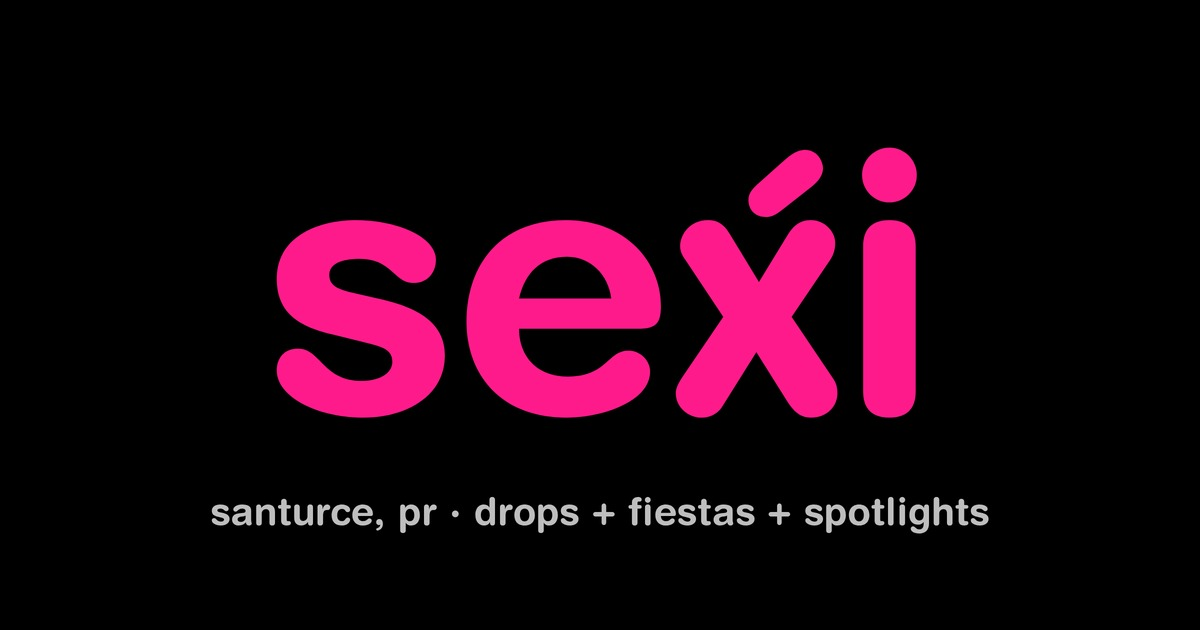
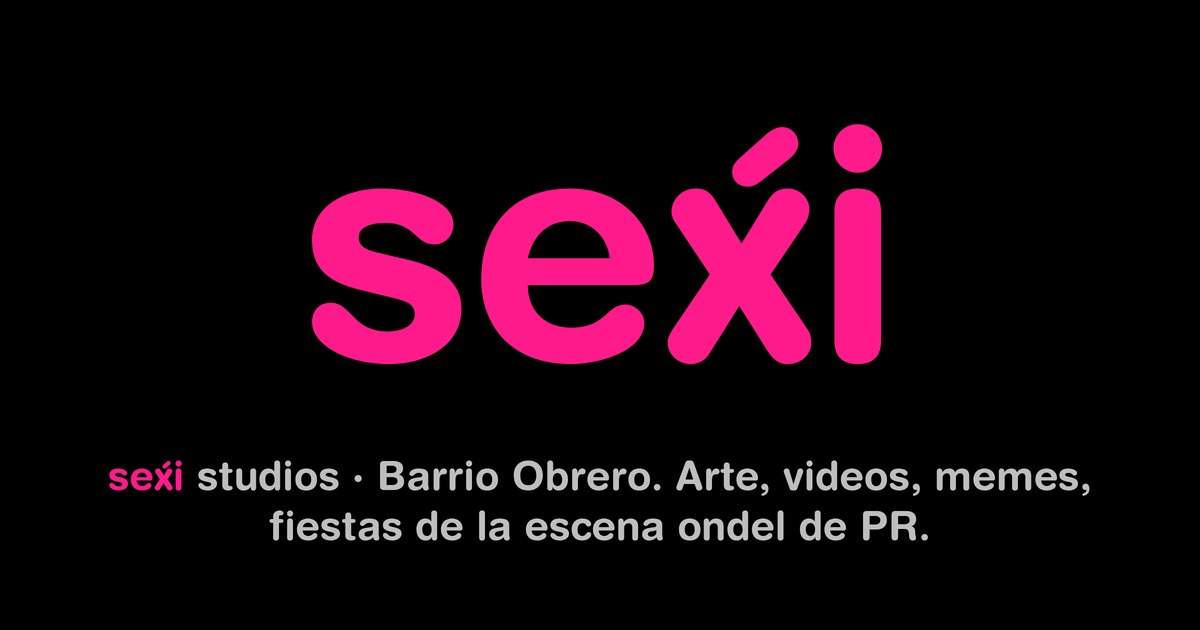
OG copy: switch to footer tagline 'sexí studios · Barrio Obrero…'
- og-image.jpg: tagline now matches footer copy, brand-marked sexí in pink
- index.html + home-locked.html og:description: footer text
- tienda.html og:description: studios prefix + tienda-specific tail
- Wordmark + accent unchanged (Frank confirmed accent is perfect)

Changed region(s): [[0.2158, 0.181, 0.7708, 0.6635], [0.0925, 0.7238, 0.925, 0.8746]]

diff --git a/home-locked.html b/home-locked.html
@@ -7,7 +7,7 @@
   <meta name="description" content="sexí studios — fiestas, drops y spotlights a artistas boricuas up-and-coming. Santurce, San Juan. Digital, ácido, oscuro, boricua, imperfecto.">
   <meta name="theme-color" content="#000000">
   <meta property="og:title" content="sexí — santurce, PR">
-  <meta property="og:description" content="digital, ácido, oscuro, boricua, imperfecto — lo feo también es arte.">
+  <meta property="og:description" content="sexí studios · Barrio Obrero. Arte, videos, memes, fiestas de la escena ondel de PR.">
   <meta property="og:type" content="website">
   <meta property="og:url" content="https://sexipr.com">
   <meta property="og:image" content="assets/og-image.jpg">

diff --git a/index.html b/index.html
@@ -7,7 +7,7 @@
   <meta name="description" content="sexí studios — fiestas, drops y spotlights a artistas boricuas up-and-coming. Santurce, San Juan. Digital, ácido, oscuro, boricua, imperfecto.">
   <meta name="theme-color" content="#000000">
   <meta property="og:title" content="sexí — santurce, PR">
-  <meta property="og:description" content="digital, ácido, oscuro, boricua, imperfecto — lo feo también es arte.">
+  <meta property="og:description" content="sexí studios · Barrio Obrero. Arte, videos, memes, fiestas de la escena ondel de PR.">
   <meta property="og:type" content="website">
   <meta property="og:url" content="https://sexipr.com">
   <meta property="og:image" content="assets/og-image.jpg">

diff --git a/tienda.html b/tienda.html
@@ -7,7 +7,7 @@
   <meta name="description" content="La tienda sexí — drops por pillar, ediciones limitadas, con cariño desde Santurce. Envíos a PR y USA.">
   <meta name="theme-color" content="#000000">
   <meta property="og:title" content="Tienda — sexí">
-  <meta property="og:description" content="Drops por pillar. Ediciones limitadas. Hecho en Santurce.">
+  <meta property="og:description" content="sexí studios · Barrio Obrero. Drops por pillar. Ediciones limitadas.">
   <meta property="og:type" content="website">
   <meta property="og:url" content="https://sexipr.com/tienda">
   <meta property="og:image" content="assets/og-image.jpg">
